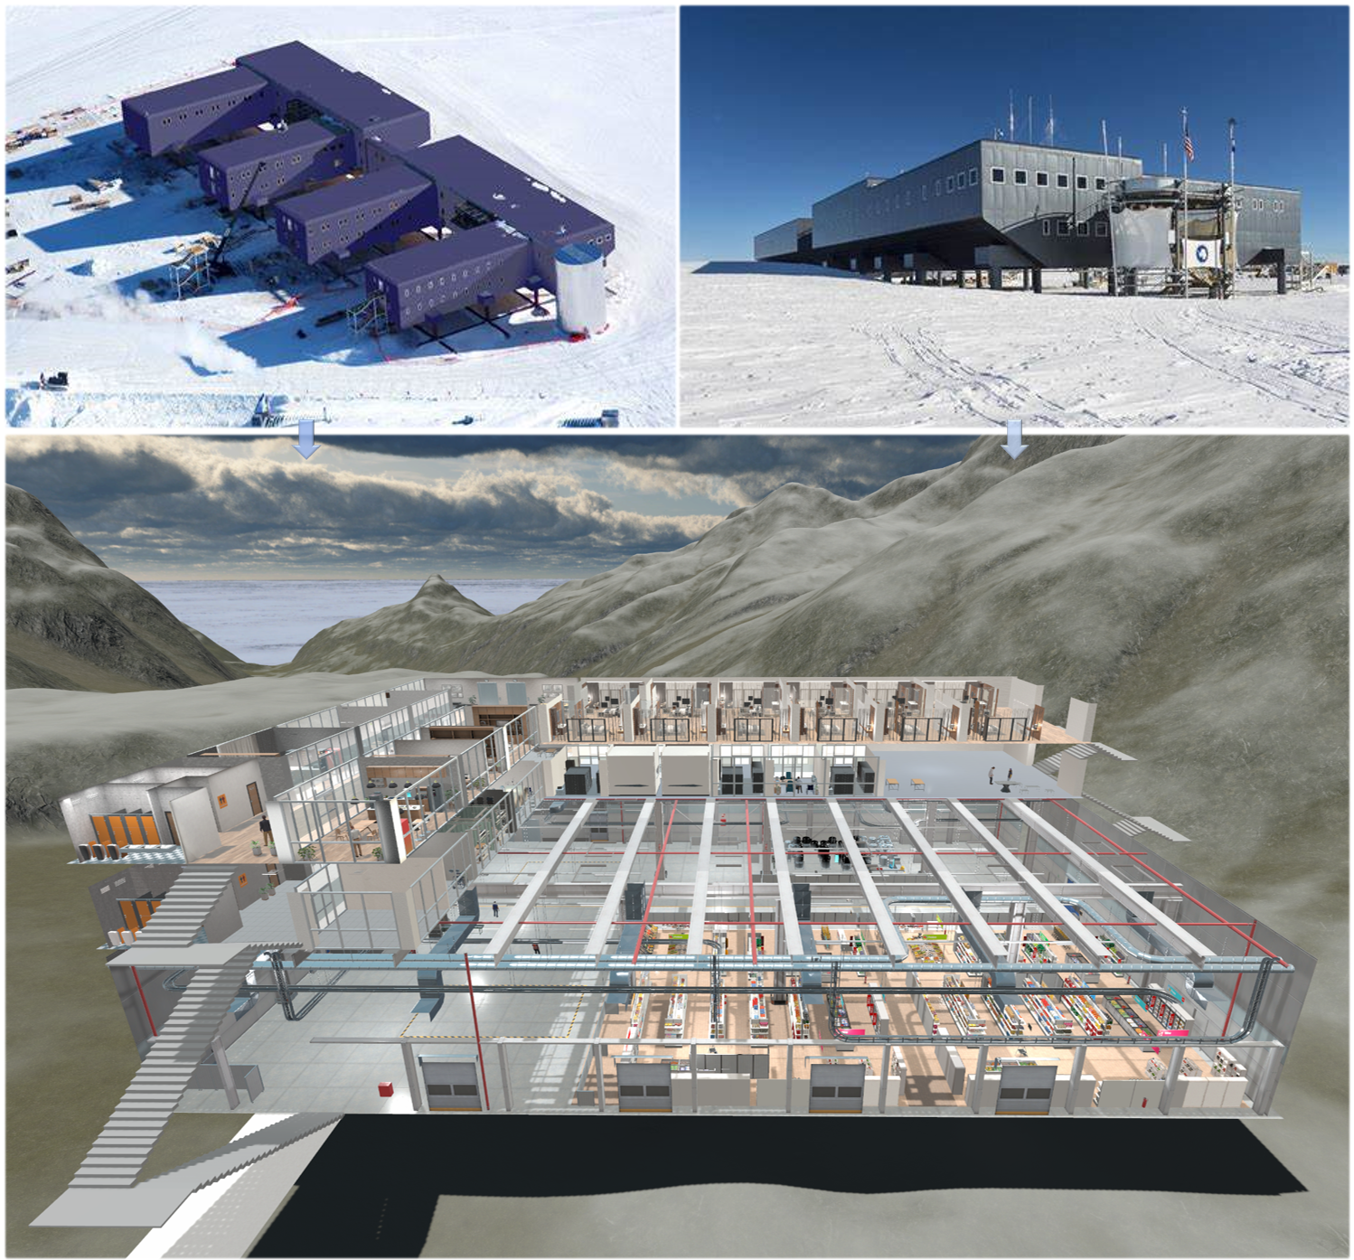
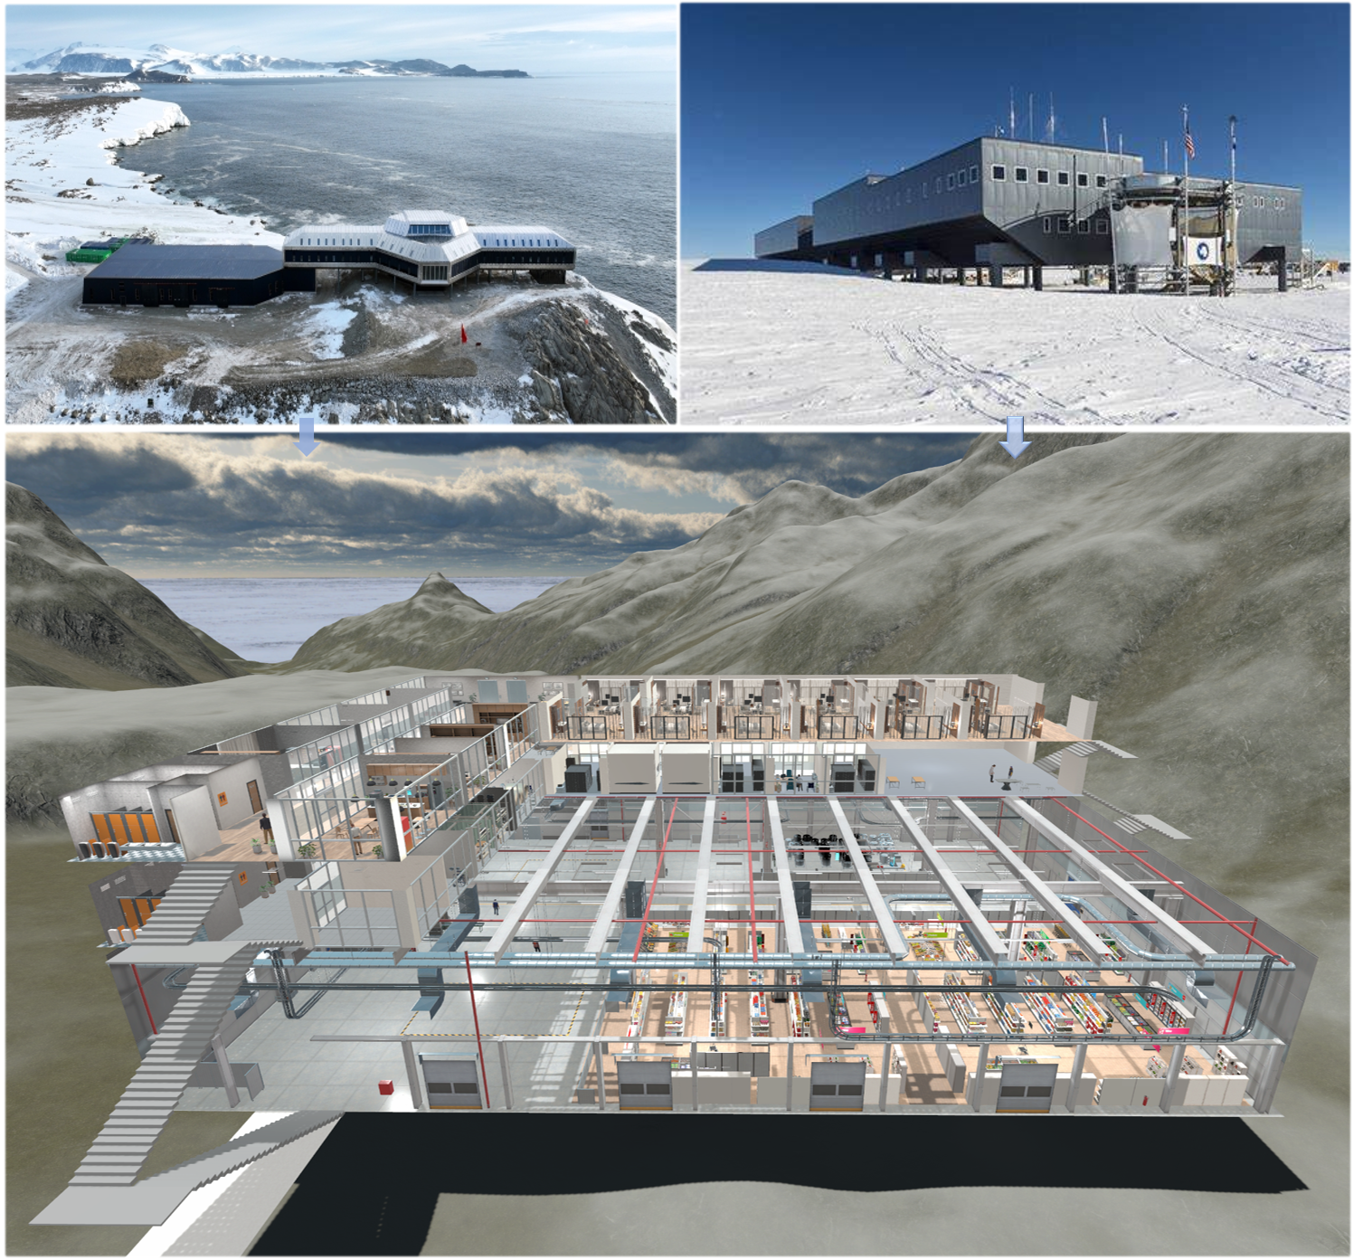
image update

diff --git a/index.html b/index.html
@@ -376,7 +376,7 @@ https://templatemo.com/tm-583-festava-live
                         <!-- <p>极科通用(Polar Research Station)为极地研究科考站组织通用智能计划的简称，该项目用于针对性探索真正意义上的通用人工智能技术，并致力于使得这些技术以可控的风险、成本、路径逐步落地，并为全人类提供实用的、可靠的、安全的智能服务。 (暂未翻译。。。)</p>
                         <p>为了探索人机混居的场景，我们提出了一个开源的项目——极地科考站，来逐步地减缓具身智能融入人类社会的综合性问题。该项目提供了一个虚拟模拟器平台，该虚拟模拟器的框架如图1所示，并且具有以下特征(a)(b)(c)(d)(e)(f)(g):</p> -->
                         <div style="margin-top: 8px;">
-                        <ul>                            <li> A <span style="font-weight: 500;">3D interactive continuous environment</span> supported by the physics engine, and we support many popular physics engines (e.g. Bullet, MuJoCo, PhysX 5.0) for virtual environment construction. </li>
+                        <ul>                            <li> A <span style="font-weight: 500;">3D interactive continuous environment</span> supported by the physics engine, and we support many popular physics engines (e.g. PyBullet, MuJoCo, PhysX 5.0) for virtual environment construction. </li>
                             <li> Our framework can flexibly construct various styles of buildings and room layouts. For instance, the <span style="font-weight: 500;">multi-story building</span> used in the challenge contains 
                                 activity rooms, meeting rooms, kitchens, bedrooms, laboratories, greenhouses, warehouses, supermarkets, gyms, and other common scenes,Our framework can flexibly construct various styles of buildings and room layouts. For instance, the multi-story building used in the challenge contains activity rooms, meeting rooms, kitchens, bedrooms, laboratories, greenhouses, warehouses, supermarkets, gyms, and other common scenes, as shown in <a href="#fig1" class="url-text"> Figure 1</a>. </li>
                             <li> <span style="font-weight: 500;">Human characters (driven by Generative Agent Tech)</span> with their own meaningful behavior and human-like needs (basic physiological, work, entertainment, social, etc.). 
@@ -416,7 +416,7 @@ https://templatemo.com/tm-583-festava-live
                             <li> a combination of scene understanding, learning, navigation, planning, and interaction with the environment.</li> -->
                             </ul></div>
                             <span style="font-weight: 400; font-size: 19px; line-height: 1.7; margin-top: 3px; margin-left: 0px; color: rgba(0, 0, 0, 0.643);">
-                                (The features mentioned above will be announced individually as we continue with subsequent benchmarks and challenges)
+                                (The features mentioned above will be announced with subsequent benchmarks and challenges.)
                             </span>
                                 <!-- <h6 class="text-center mb-4">
                                 News: <a href="challenge.html" class="url-text"> Human-centered In-building Embodied Delivery Benchmark </a>
@@ -425,7 +425,8 @@ https://templatemo.com/tm-583-festava-live
                             <img src="images/scenario/reality.png" class="show-img" alt="Centered Image" id="fig">
                             <!-- <img src="images/scenario/scene2.png" class="center-img" alt="Centered Image"> -->
                             <img src="images/scenario/scene4.png"  alt="Centered Image" id="fig1" style="width: 100%; max-width: 100%; margin-top: 20px;margin-bottom: 15px;">
-                            <p style=" text-align: center;"> Figure 1:  The PRS platform supports the construction of human community environments, such as the multi-story building in the picture containing rooms with multiple functions (such as kitchens, bedrooms, and living rooms, but less common are places like supermarkets, medical rooms, and studios). The inspiration for this building comes from the polar science station in the real world.</p>
+                            <p style=" text-align: center;"> Figure 1:  The PRS platform supports the construction of human community environments, such as the multi-story building in the picture containing rooms with multiple functions (such as kitchens, bedrooms, and living rooms, but less common are places like supermarkets, medical rooms, and studios). 
+                                The inspiration for this building comes from the polar science station in the real world, <a href="https://www.pric.org.cn/index.php?c=category&id=127" class="url-text">Polar Research Institute of China</a>, <a href="https://www.nsf.gov/geo/opp/support/southp.jsp" class="url-text"> Amundsen-Scott South Pole Station</a>.</p>
                             <br>
                             <!-- <img src="images/gif/building.gif" class="show-img" alt="Centered Image" id="fig">
                             <p style=" text-align: center;"> Figure 2: The multi-level, interconnected building offers extensive space for activities and coherent semantic information. We strongly emphasise describing "spaces with height," which significantly increases the spatial efficiency with which we portrays complex scenes.</p> -->
@@ -445,7 +446,7 @@ https://templatemo.com/tm-583-festava-live
                                   Your browser does not support the video tag.
                                 </video>
                               </div>
-                            <img src="images/gif/npcs.gif" class="show-img" alt="Centered Image" id="fig">
+                            <!-- <img src="images/gif/npcs.gif" class="show-img" alt="Centered Image" id="fig"> -->
                             <p style=" text-align: center;"> Figure 5: The generative model-driven NPC is a human-like individual with its demands and corresponding behaviors.</p>
                 
 
@@ -589,8 +590,8 @@ Through this environment, we aim to explore the capabilities of LLMs in understa
             <p style=" text-align: center;">Interactive devices for various purposes</p>
         <img src="images/scenario/screen.png" class="center-img" alt="Centered Image">
             <p style=" text-align: center;">Monitoring and display screen simulations</p>-->
-        <img src="images/scenario/emotion.png" class="show-img" alt="Centered Image">
-            <p style=" text-align: center;">NPC's social emotional system</p> 
+        <!-- <img src="images/scenario/emotion.png" class="show-img" alt="Centered Image">
+            <p style=" text-align: center;">NPC's social emotional system</p>  -->
 
         <!-- <div class="video-container">
             <div class="video-wrapper">
@@ -615,8 +616,8 @@ Through this environment, we aim to explore the capabilities of LLMs in understa
               </video>
             </div>
           </div> -->
-          <br>
-          <img src="images/gif/bye.gif" class="center-img" alt="Centered Image">
+          <!-- <br>
+          <img src="images/gif/bye.gif" class="center-img" alt="Centered Image"> -->
           <!-- <div class="video-container">
             <video class="video-solo" controls>
               <source src="video/robot1.mp4" type="video/mp4">
@@ -627,18 +628,21 @@ Through this environment, we aim to explore the capabilities of LLMs in understa
           <img src="images/gif/npc_interaction.gif" class="show-img" alt="Centered Image" id="fig">
             <p style=" text-align: center;"> Figure 10: NPC-device interaction and mirror effect.</p>
         
-            <p><strong>
+            <span style="font-weight: 500; font-size: 20px;"><strong>
                 We can customize the generation of the following scenarios according to requirements:<br></strong>
 1. High-precision physical simulation and various interactive objects (devices).<br>
-2. Customizable rendering pipeline selection.<br>
-3. Rapid customization of functional buildings to meet the needs of large-scale embodied commercial applications.
-</p>
 
-            <img src="images/features/interactive_device.png" class="show-img" alt="Centered Image" id="fig">
+2. Import the URDF file into our scenes to simulate the robot's physical interaction.
+</span>
+
+            <!-- <img src="images/features/interactive_device.png" class="show-img" alt="Centered Image" id="fig"> -->
                 
             <img src="images/scenario/device.png" class="show-img" alt="Centered Image" id="fig">
             <!-- <p style=" text-align: center;"> Figure 11: Mirror effect.</p> -->
         
+            <span style="font-weight: 500; font-size: 20px;">
+                3. Customizable rendering pipeline selection.<br>
+                4. Rapid customization of functional buildings to meet the needs of large-scale embodied commercial applications.</span>
             <img src="images/features/render.png" class="show-img" alt="Centered Image" id="fig">
             <p style=" text-align: center;"> Figure 11: Customizable rendering pipeline to meet varying levels of demand.</p>
         </div>
